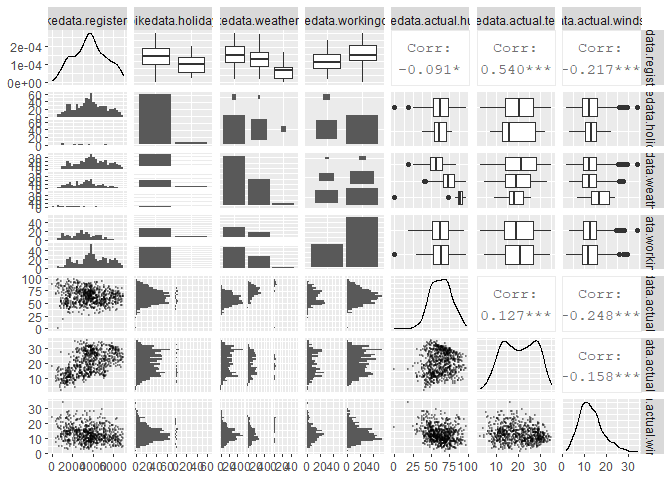
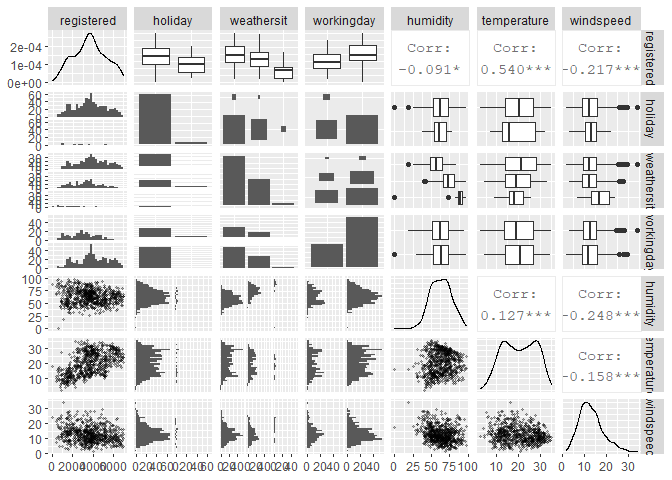
LAB6

diff --git a/Bike-rentals.md b/Bike-rentals.md
@@ -348,7 +348,7 @@ bikedata$yr <- as.factor(bikedata$yr)
 ```
 
 ``` r
-m.mls_casual <- lm(bikedata$casual ~ bikedata$holiday + bikedata$weathersit + bikedata$workingday +  bikedata$actual.hum + bikedata$actual.temp+ bikedata$actual.windspeed)
+m.mls_casual <- lm(bikedata$casual ~ bikedata$holiday + bikedata$weathersit + bikedata$workingday +  bikedata$actual.hum + bikedata$actual.temp+ I(bikedata$actual.temp^2) )
 
 summary(m.mls_casual)
 ```
@@ -357,31 +357,31 @@ summary(m.mls_casual)
     ## Call:
     ## lm(formula = bikedata$casual ~ bikedata$holiday + bikedata$weathersit + 
     ##     bikedata$workingday + bikedata$actual.hum + bikedata$actual.temp + 
-    ##     bikedata$actual.windspeed)
+    ##     I(bikedata$actual.temp^2))
     ## 
     ## Residuals:
     ##      Min       1Q   Median       3Q      Max 
-    ## -1344.11  -217.48   -17.62   162.03  1782.49 
+    ## -1404.90  -243.62   -46.07   166.08  1659.60 
     ## 
     ## Coefficients:
-    ##                           Estimate Std. Error t value Pr(>|t|)    
-    ## (Intercept)                974.483    110.161   8.846  < 2e-16 ***
-    ## bikedata$holiday1         -312.884     94.911  -3.297  0.00103 ** 
-    ## bikedata$weathersit2       -56.701     40.663  -1.394  0.16362    
-    ## bikedata$weathersit3      -321.274    104.135  -3.085  0.00211 ** 
-    ## bikedata$workingday1      -829.014     34.206 -24.236  < 2e-16 ***
-    ## bikedata$actual.hum         -5.951      1.452  -4.099 4.62e-05 ***
-    ## bikedata$actual.temp        51.258      2.137  23.985  < 2e-16 ***
-    ## bikedata$actual.windspeed  -14.832      3.169  -4.681 3.41e-06 ***
+    ##                            Estimate Std. Error t value Pr(>|t|)    
+    ## (Intercept)               -172.4163   117.7604  -1.464   0.1436    
+    ## bikedata$holiday1         -292.8184    90.7100  -3.228   0.0013 ** 
+    ## bikedata$weathersit2       -86.8132    38.4040  -2.261   0.0241 *  
+    ## bikedata$weathersit3      -441.9710    96.9234  -4.560 6.01e-06 ***
+    ## bikedata$workingday1      -832.5939    32.6829 -25.475  < 2e-16 ***
+    ## bikedata$actual.hum         -6.1800     1.3410  -4.608 4.80e-06 ***
+    ## bikedata$actual.temp       163.5398    11.7408  13.929  < 2e-16 ***
+    ## I(bikedata$actual.temp^2)   -2.7584     0.2861  -9.643  < 2e-16 ***
     ## ---
     ## Signif. codes:  0 '***' 0.001 '**' 0.01 '*' 0.05 '.' 0.1 ' ' 1
     ## 
-    ## Residual standard error: 414.5 on 723 degrees of freedom
-    ## Multiple R-squared:  0.6391, Adjusted R-squared:  0.6356 
-    ## F-statistic: 182.9 on 7 and 723 DF,  p-value: < 2.2e-16
+    ## Residual standard error: 396 on 723 degrees of freedom
+    ## Multiple R-squared:  0.6705, Adjusted R-squared:  0.6673 
+    ## F-statistic: 210.2 on 7 and 723 DF,  p-value: < 2.2e-16
 
 ``` r
-m.mls_registered <- lm(bikedata$registered ~ bikedata$holiday + bikedata$weathersit + bikedata$workingday + bikedata$yr + bikedata$actual.hum + bikedata$actual.temp+ bikedata$actual.windspeed)
+m.mls_registered <- lm(bikedata$registered ~ bikedata$holiday + bikedata$weathersit + bikedata$workingday  + bikedata$actual.hum + bikedata$actual.temp+ I(bikedata$actual.temp^2) + bikedata$actual.windspeed)
 
 summary(m.mls_registered)
 ```
@@ -389,35 +389,37 @@ summary(m.mls_registered)
     ## 
     ## Call:
     ## lm(formula = bikedata$registered ~ bikedata$holiday + bikedata$weathersit + 
-    ##     bikedata$workingday + bikedata$yr + bikedata$actual.hum + 
-    ##     bikedata$actual.temp + bikedata$actual.windspeed)
+    ##     bikedata$workingday + bikedata$actual.hum + bikedata$actual.temp + 
+    ##     I(bikedata$actual.temp^2) + bikedata$actual.windspeed)
     ## 
     ## Residuals:
-    ##      Min       1Q   Median       3Q      Max 
-    ## -3068.28  -514.58    10.66   569.09  1928.73 
+    ##     Min      1Q  Median      3Q     Max 
+    ## -2997.8  -812.3   -43.5   842.4  2635.4 
     ## 
     ## Coefficients:
-    ##                            Estimate Std. Error t value Pr(>|t|)    
-    ## (Intercept)                1029.794    213.323   4.827 1.69e-06 ***
-    ## bikedata$holiday1          -332.676    179.378  -1.855   0.0641 .  
-    ## bikedata$weathersit2       -399.385     77.020  -5.185 2.80e-07 ***
-    ## bikedata$weathersit3      -1492.762    196.813  -7.585 1.03e-13 ***
-    ## bikedata$workingday1        941.423     64.646  14.563  < 2e-16 ***
-    ## bikedata$yr1               1736.294     58.617  29.621  < 2e-16 ***
-    ## bikedata$actual.hum          -2.618      2.765  -0.947   0.3441    
-    ## bikedata$actual.temp         95.618      4.048  23.619  < 2e-16 ***
-    ## bikedata$actual.windspeed   -37.389      5.992  -6.239 7.48e-10 ***
+    ##                             Estimate Std. Error t value Pr(>|t|)    
+    ## (Intercept)                 -18.8856   354.6791  -0.053   0.9575    
+    ## bikedata$holiday1          -221.4721   245.5635  -0.902   0.3674    
+    ## bikedata$weathersit2       -230.9521   105.1840  -2.196   0.0284 *  
+    ## bikedata$weathersit3      -1500.7487   269.3731  -5.571 3.57e-08 ***
+    ## bikedata$workingday1        908.4981    88.4997  10.266  < 2e-16 ***
+    ## bikedata$actual.hum         -21.8807     3.8379  -5.701 1.73e-08 ***
+    ## bikedata$actual.temp        465.0727    31.9368  14.562  < 2e-16 ***
+    ## I(bikedata$actual.temp^2)    -8.9513     0.7794 -11.485  < 2e-16 ***
+    ## bikedata$actual.windspeed   -54.4412     8.2487  -6.600 7.96e-11 ***
     ## ---
     ## Signif. codes:  0 '***' 0.001 '**' 0.01 '*' 0.05 '.' 0.1 ' ' 1
     ## 
-    ## Residual standard error: 783.3 on 722 degrees of freedom
-    ## Multiple R-squared:  0.7507, Adjusted R-squared:  0.7479 
-    ## F-statistic: 271.8 on 8 and 722 DF,  p-value: < 2.2e-16
+    ## Residual standard error: 1072 on 722 degrees of freedom
+    ## Multiple R-squared:  0.5331, Adjusted R-squared:  0.5279 
+    ## F-statistic:   103 on 8 and 722 DF,  p-value: < 2.2e-16
 
 ``` r
 data <- data.frame(bikedata$casual, bikedata$holiday, bikedata$weathersit, bikedata$workingday, bikedata$actual.hum, bikedata$actual.temp, bikedata$actual.windspeed)
 
-ggpairs(data, lower = list(continuous = wrap("points", alpha = 0.3, size= 0.1)))
+data = data%>% rename( casual = bikedata.casual, holiday = bikedata.holiday,  weathersit = bikedata.weathersit,  workingday = bikedata.workingday, humidity= bikedata.actual.hum,  temperature= bikedata.actual.temp, windspeed = bikedata.actual.windspeed)
+
+ggpairs(data, lower = list(continuous = wrap("points", alpha = 0.3, size= 0.7)))
 ```
 
     ## `stat_bin()` using `bins = 30`. Pick better value with `binwidth`.
@@ -437,8 +439,10 @@ ggpairs(data, lower = list(continuous = wrap("points", alpha = 0.3, size= 0.1)))
 
 ``` r
 data <- data.frame(bikedata$registered, bikedata$holiday, bikedata$weathersit, bikedata$workingday, bikedata$actual.hum, bikedata$actual.temp, bikedata$actual.windspeed)
+ 
+data = data%>% rename( registered = bikedata.registered, holiday = bikedata.holiday,  weathersit = bikedata.weathersit,  workingday = bikedata.workingday, humidity= bikedata.actual.hum,  temperature= bikedata.actual.temp, windspeed = bikedata.actual.windspeed)
 
-ggpairs(data, lower = list(continuous = wrap("points", alpha = 0.3, size= 0.1)))
+ggpairs(data, lower = list(continuous = wrap("points", alpha = 0.3, size= 0.7)))
 ```
 
     ## `stat_bin()` using `bins = 30`. Pick better value with `binwidth`.
@@ -469,3 +473,89 @@ ggplot(bikedata, aes(x = casual, y=StanResMLS_casual)) + geom_point(shape = 1) +
 ```
 
 ![](Bike-rentals_files/figure-gfm/unnamed-chunk-14-1.png)<!-- -->
+
+We decide to drop humidity, because the scatter matrix shows that the
+slope of the trend is flat, meaning that humidity does not contribute
+significantly to the rental counts. Humidity also appears to be
+correlated with weather situation, we see that weathersit 3 has the
+highest humidity compared to 2 and 1, therefore creating colinearity
+among the covariates.
+
+``` r
+m.mls_casual_revised <- lm(bikedata$casual ~  bikedata$weathersit + bikedata$workingday +  bikedata$actual.temp+ I(bikedata$actual.temp^2) +bikedata$actual.windspeed)
+
+summary(m.mls_casual_revised)
+```
+
+    ## 
+    ## Call:
+    ## lm(formula = bikedata$casual ~ bikedata$weathersit + bikedata$workingday + 
+    ##     bikedata$actual.temp + I(bikedata$actual.temp^2) + bikedata$actual.windspeed)
+    ## 
+    ## Residuals:
+    ##      Min       1Q   Median       3Q      Max 
+    ## -1270.72  -252.50   -47.14   172.27  1824.35 
+    ## 
+    ## Coefficients:
+    ##                            Estimate Std. Error t value Pr(>|t|)    
+    ## (Intercept)               -268.0985   114.7070  -2.337   0.0197 *  
+    ## bikedata$weathersit2      -191.8973    32.0272  -5.992 3.27e-09 ***
+    ## bikedata$weathersit3      -574.0937    90.2820  -6.359 3.60e-10 ***
+    ## bikedata$workingday1      -802.7995    31.9213 -25.149  < 2e-16 ***
+    ## bikedata$actual.temp       153.6635    11.5554  13.298  < 2e-16 ***
+    ## I(bikedata$actual.temp^2)   -2.6010     0.2842  -9.152  < 2e-16 ***
+    ## bikedata$actual.windspeed  -12.1478     2.9084  -4.177 3.32e-05 ***
+    ## ---
+    ## Signif. codes:  0 '***' 0.001 '**' 0.01 '*' 0.05 '.' 0.1 ' ' 1
+    ## 
+    ## Residual standard error: 399.6 on 724 degrees of freedom
+    ## Multiple R-squared:  0.6641, Adjusted R-squared:  0.6613 
+    ## F-statistic: 238.5 on 6 and 724 DF,  p-value: < 2.2e-16
+
+``` r
+StanResMLS_casual_revised <- rstandard(m.mls_casual_revised)
+ggplot(bikedata, aes(x = casual, y=StanResMLS_casual_revised)) + geom_point(shape = 1) + geom_hline(yintercept = -2) + geom_hline(yintercept = 2)+ ggtitle("Standarized Residuals")
+```
+
+![](Bike-rentals_files/figure-gfm/unnamed-chunk-16-1.png)<!-- --> We
+decided to drop holiday as a covariate for registered because the
+coefficient of holiday is insignificant and the scatter matrix suggest
+that holiday doesn’t play much effect on rental count for registered.
+
+``` r
+m.mls_registered_revised <- lm(bikedata$registered ~  bikedata$weathersit +bikedata$workingday + bikedata$actual.temp+ I(bikedata$actual.temp^2) +bikedata$actual.windspeed)
+
+summary(m.mls_registered_revised)
+```
+
+    ## 
+    ## Call:
+    ## lm(formula = bikedata$registered ~ bikedata$weathersit + bikedata$workingday + 
+    ##     bikedata$actual.temp + I(bikedata$actual.temp^2) + bikedata$actual.windspeed)
+    ## 
+    ## Residuals:
+    ##      Min       1Q   Median       3Q      Max 
+    ## -2543.24  -868.81   -53.68   912.09  2742.30 
+    ## 
+    ## Coefficients:
+    ##                             Estimate Std. Error t value Pr(>|t|)    
+    ## (Intercept)               -1038.7419   314.3381  -3.305 0.000998 ***
+    ## bikedata$weathersit2       -576.1641    87.7661  -6.565 9.94e-11 ***
+    ## bikedata$weathersit3      -2166.6944   247.4049  -8.758  < 2e-16 ***
+    ## bikedata$workingday1        948.9849    87.4758  10.849  < 2e-16 ***
+    ## bikedata$actual.temp        422.3198    31.6660  13.337  < 2e-16 ***
+    ## I(bikedata$actual.temp^2)    -8.0520     0.7788 -10.339  < 2e-16 ***
+    ## bikedata$actual.windspeed   -39.2029     7.9701  -4.919 1.08e-06 ***
+    ## ---
+    ## Signif. codes:  0 '***' 0.001 '**' 0.01 '*' 0.05 '.' 0.1 ' ' 1
+    ## 
+    ## Residual standard error: 1095 on 724 degrees of freedom
+    ## Multiple R-squared:  0.5114, Adjusted R-squared:  0.5074 
+    ## F-statistic: 126.3 on 6 and 724 DF,  p-value: < 2.2e-16
+
+``` r
+StanResMLS_registered_revised <- rstandard(m.mls_registered_revised)
+ggplot(bikedata, aes(x = casual, y=StanResMLS_registered_revised)) + geom_point(shape = 1) + geom_hline(yintercept = -2) + geom_hline(yintercept = 2)+ ggtitle("Standarized Residuals")
+```
+
+![](Bike-rentals_files/figure-gfm/unnamed-chunk-18-1.png)<!-- -->
